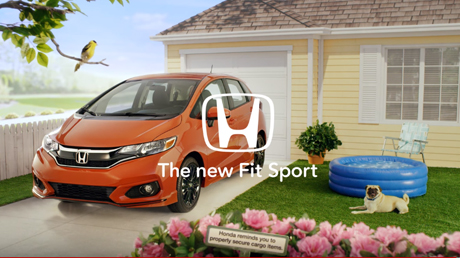
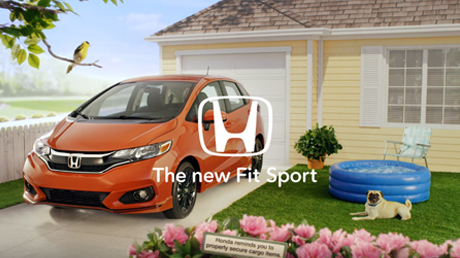
add

diff --git a/media.css b/media.css
@@ -983,7 +983,7 @@
     }
     .email_box p {
         padding: 8px 3px;
-        font-size: 8px;
+        font-size: 12px;
         position: absolute;
         top: 3%;
     }
@@ -991,16 +991,17 @@
         width: 45%;
         height: 53%;
         position: absolute;
-        font-size: 8px;
+        font-size: 10px;
+        text-align: center;
         top: 25%;
         left: 35%;
     }
     .button {
         min-width: 12%;
-        padding: 1.2% 0%;
-        top: 23%;
+        padding: 1.3% 0%;
+        top: 26%;
         right: 3%;
-        font-size: 5px
+        font-size: 9px
     }
     .headpic {
         width: 100%;

diff --git a/index.html b/index.html
@@ -227,7 +227,7 @@
 			background: none;
 		}
 
-		button {
+		.button {
 			padding: 0;
 		}
 
@@ -1003,12 +1003,18 @@
 		</script>
 		<script>
 			var swiper2 = new Swiper('#head-swiper-container', {
+				autoplay: {
+					delay: 2000,
+				},
+				loop : true,
 				spaceBetween: 30,
 				pagination: {
 					el: '.swiper-pagination',
 					clickable: true,
+
 				},
 			});
 		</script>
 </body>
+
 </html>

diff --git a/style.css b/style.css
@@ -449,7 +449,7 @@
             padding-top: 25px;
         }
 
-        .btn {
+        .news_bag .btn {
             position: absolute;
             right: 0%;
             bottom: 0%;
